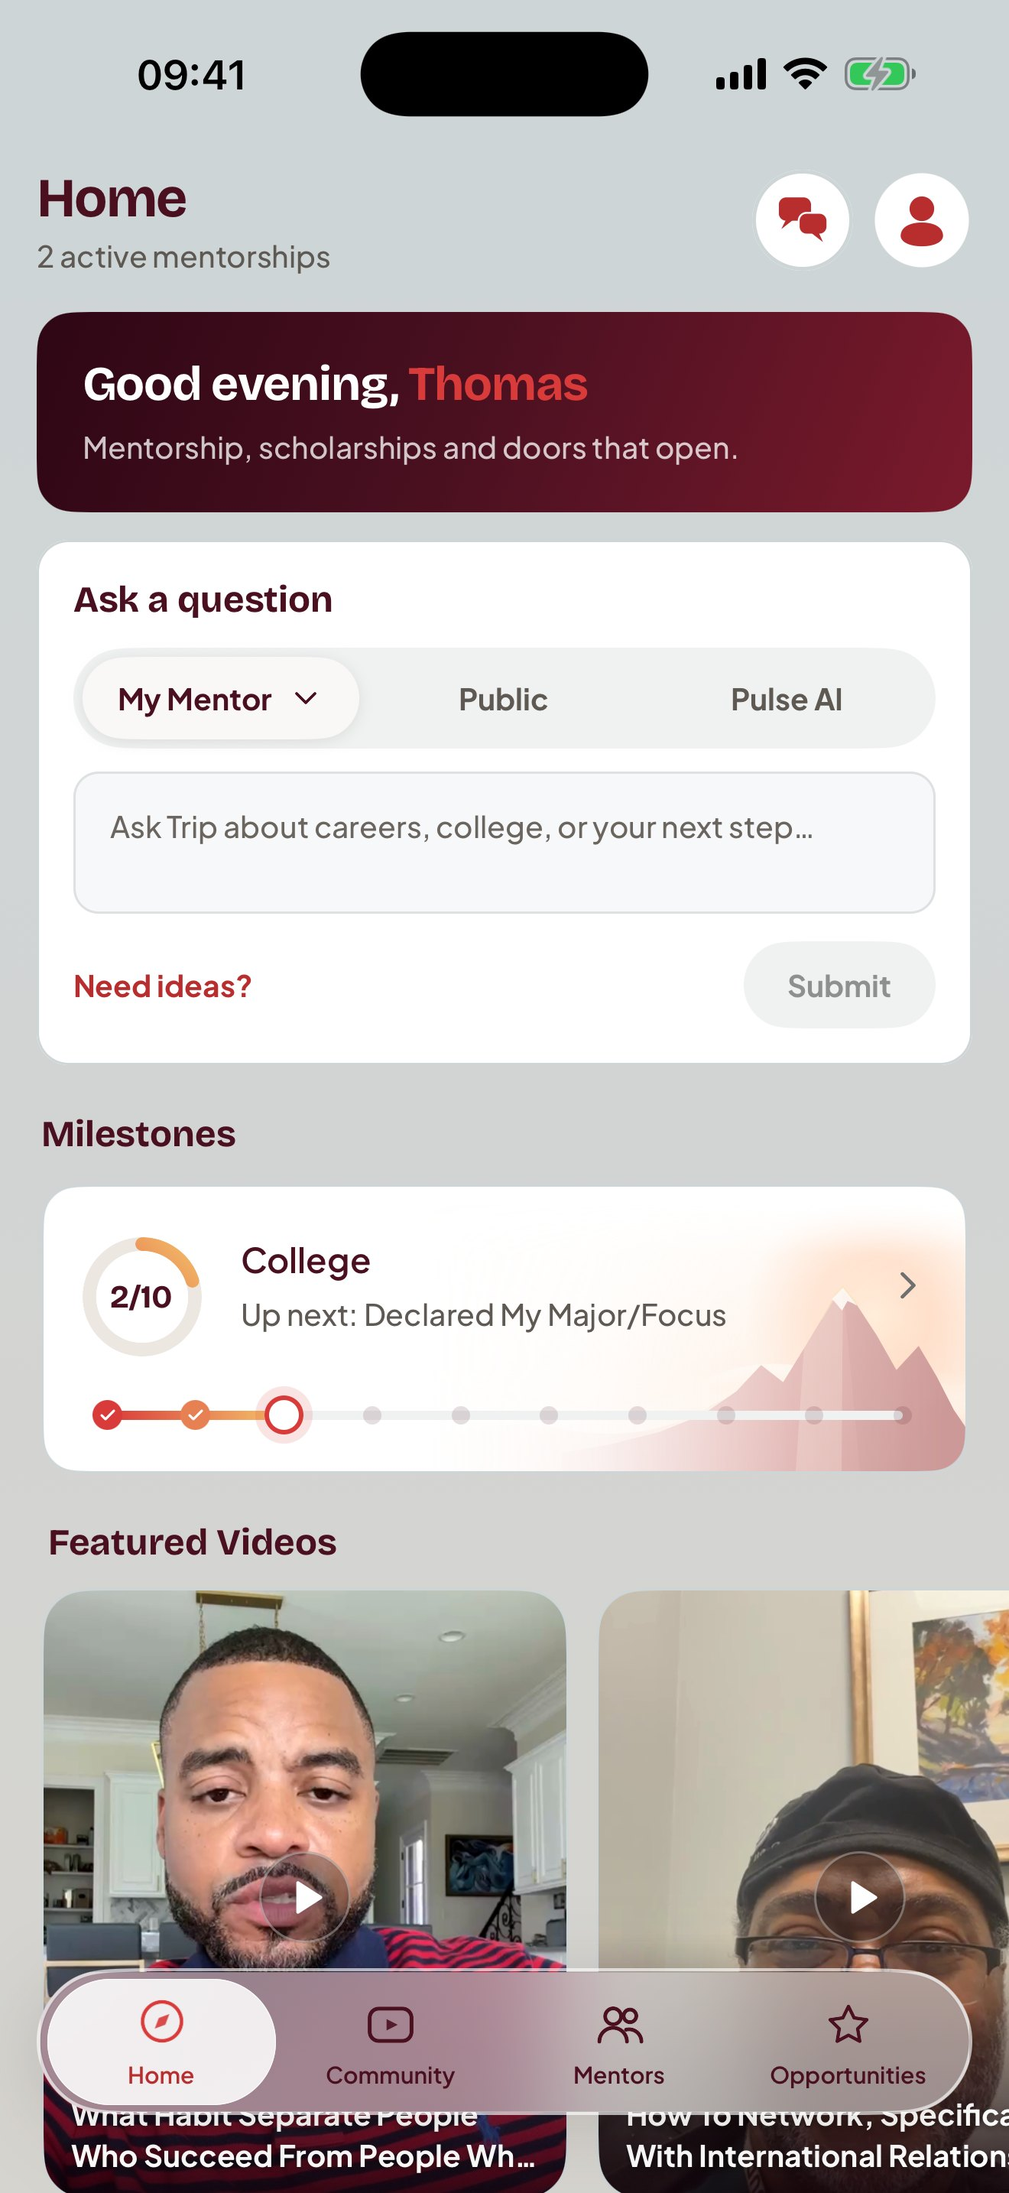
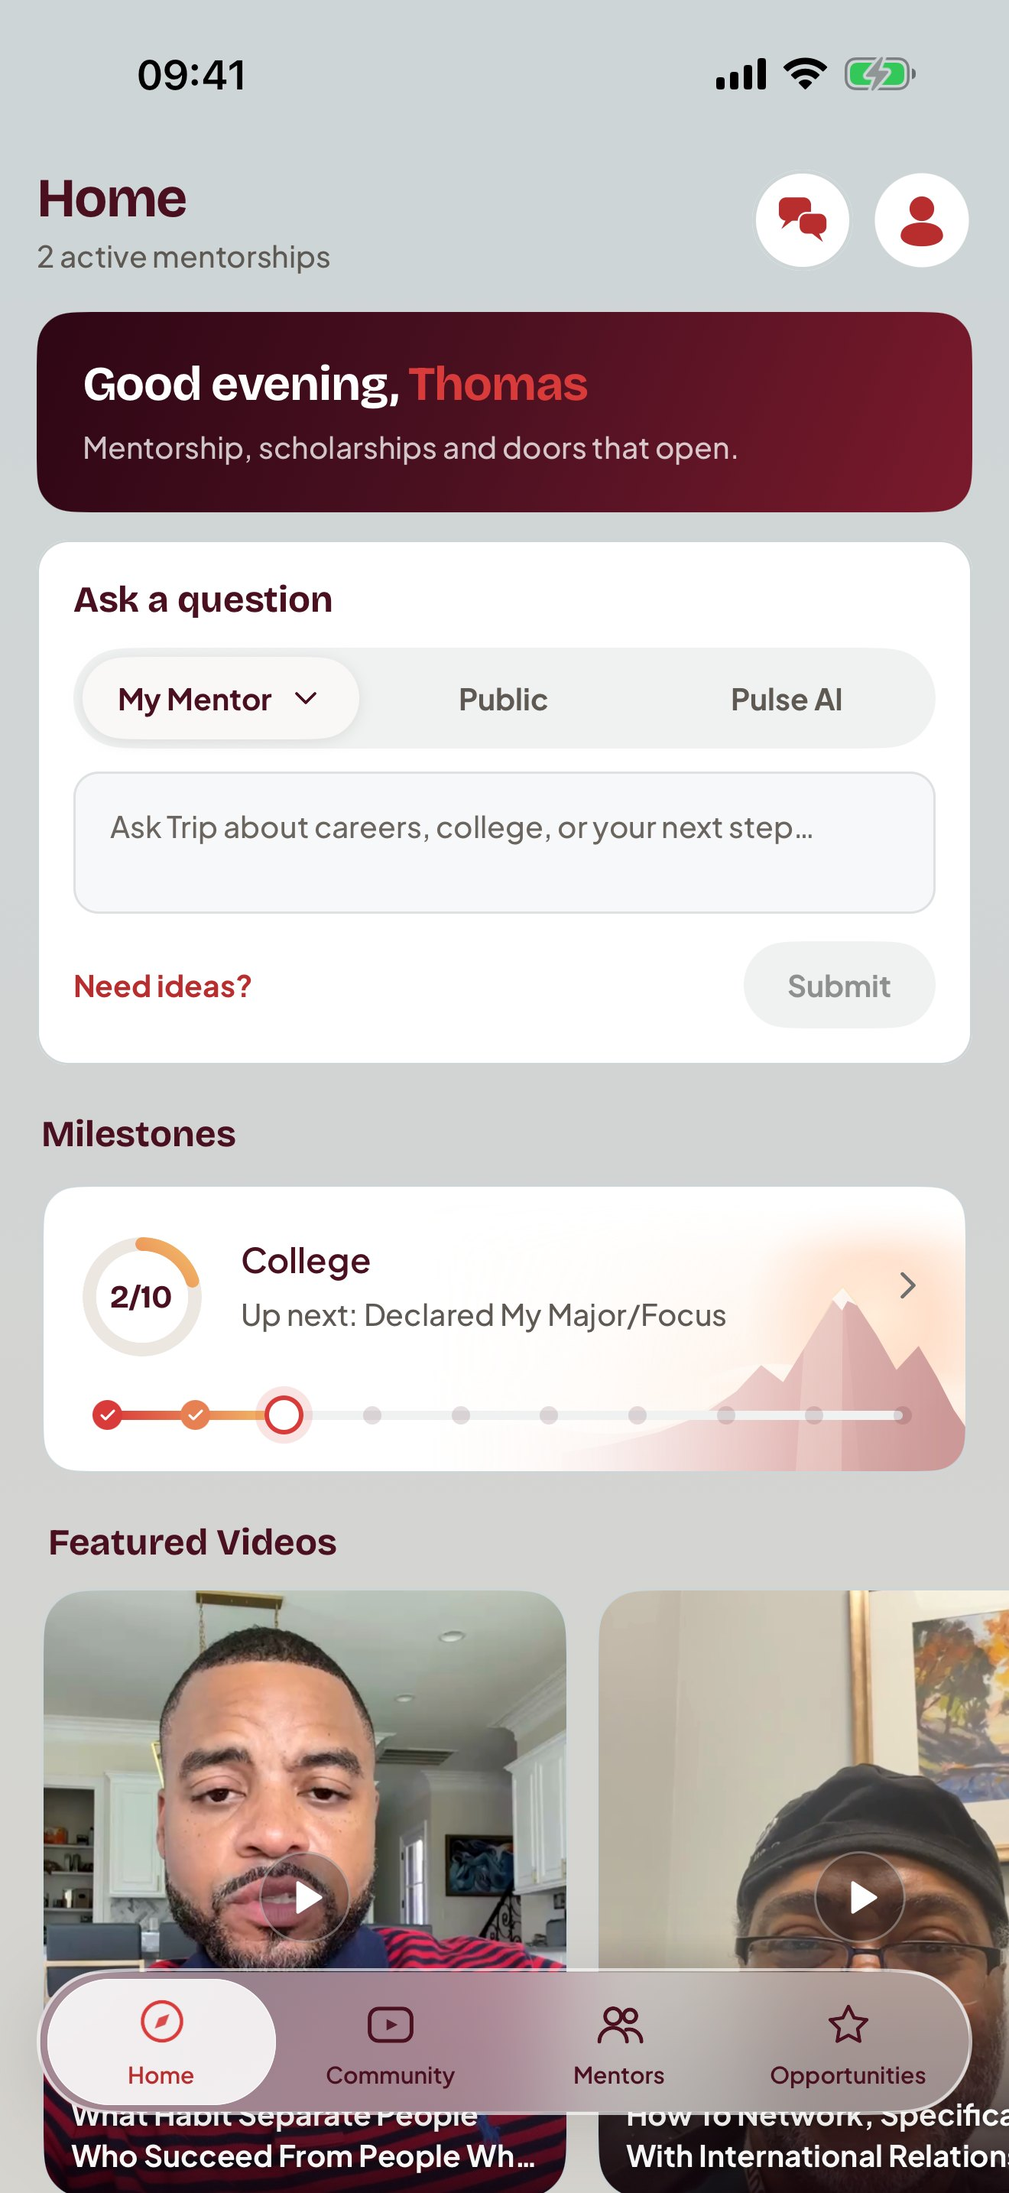
Frame 04 on the new player with Paul M, and the simulator island removed from every phone
All ten frames now show the redesigned app. The simulator paints the Dynamic Island as a
black pill that a real phone screenshot never contains; inside the drawn device it read
as a second notch, plainly wrong on the tilted opening phone and the small closing one.
strip-island.py fills it from the status bar's own background on every capture.

Changed region(s): [[0.3417, 0.0, 0.6523, 0.0621]]

diff --git a/index.html b/index.html
@@ -501,7 +501,7 @@ body.export .frame-wrap .frame { transform: none; }
 
 <div class="store">
   <div class="store-header">
-    <img class="store-icon" src="assets/icon-b-1024.png?v=202609042145?v=2" alt="P3 app icon">
+    <img class="store-icon" src="assets/icon-b-1024.png?v=202609042205?v=2" alt="P3 app icon">
     <div class="store-meta">
       <h1>P3: Pulse of Perseverance</h1>
       <div class="subtitle">Empower Education &amp; Mentorship</div>
@@ -523,9 +523,9 @@ body.export .frame-wrap .frame { transform: none; }
         <div class="frame-wrap" data-zoom="frame-01">
           <div class="frame" id="frame-01">
             <div class="pano open-pair">
-              <div class="pano-watermark"><img src="assets/campus-bg.jpg?v=202609042145" alt=""></div>
+              <div class="pano-watermark"><img src="assets/campus-bg.jpg?v=202609042205" alt=""></div>
               <div class="brand-col">
-                <img class="wordmark" src="assets/p3-logo-horizontal.png?v=202609042145" alt="P3 Pulse of Perseverance">
+                <img class="wordmark" src="assets/p3-logo-horizontal.png?v=202609042205" alt="P3 Pulse of Perseverance">
                 <div class="statement">The career<br>accelerator<br>for the <em>next<br>generation.</em></div>
                 <div class="index">
                   <div class="row">
@@ -556,7 +556,7 @@ body.export .frame-wrap .frame { transform: none; }
               </div>
               <div class="device tilt">
                 <div class="screen">
-                  <img class="capture" src="captures/home.jpg?v=202609042145" alt="P3 home feed">
+                  <img class="capture" src="captures/home.jpg?v=202609042205" alt="P3 home feed">
                 </div>
               </div>
             </div>
@@ -566,9 +566,9 @@ body.export .frame-wrap .frame { transform: none; }
         <div class="frame-wrap" data-zoom="frame-02">
           <div class="frame pr" id="frame-02">
             <div class="pano open-pair">
-              <div class="pano-watermark"><img src="assets/campus-bg.jpg?v=202609042145" alt=""></div>
+              <div class="pano-watermark"><img src="assets/campus-bg.jpg?v=202609042205" alt=""></div>
               <div class="brand-col">
-                <img class="wordmark" src="assets/p3-logo-horizontal.png?v=202609042145" alt="">
+                <img class="wordmark" src="assets/p3-logo-horizontal.png?v=202609042205" alt="">
                 <div class="statement">The career<br>accelerator<br>for the <em>next<br>generation.</em></div>
                 <div class="index">
                   <div class="row">
@@ -599,7 +599,7 @@ body.export .frame-wrap .frame { transform: none; }
               </div>
               <div class="device tilt">
                 <div class="screen">
-                  <img class="capture" src="captures/home.jpg?v=202609042145" alt="P3 home feed">
+                  <img class="capture" src="captures/home.jpg?v=202609042205" alt="P3 home feed">
                 </div>
               </div>
             </div>
@@ -635,22 +635,22 @@ body.export .frame-wrap .frame { transform: none; }
               <line x1="660" y1="950" x2="1000" y2="1560" stroke="rgba(255,255,255,0.10)" stroke-width="2"/>
               <line x1="660" y1="950" x2="210" y2="1630" stroke="rgba(255,255,255,0.10)" stroke-width="2"/>
             </svg>
-            <div class="c-node" style="width:170px;height:170px;left:875px;top:615px"><img src="assets/mentors/thomas.jpg?v=202609042145" alt="Thomas, P3 mentor"></div>
+            <div class="c-node" style="width:170px;height:170px;left:875px;top:615px"><img src="assets/mentors/thomas.jpg?v=202609042205" alt="Thomas, P3 mentor"></div>
             <div class="c-tag" style="left:865px;top:800px">97% match</div>
-            <div class="c-node" style="width:170px;height:170px;left:245px;top:715px"><img src="assets/mentors/m2.jpg?v=202609042145" alt=""></div>
+            <div class="c-node" style="width:170px;height:170px;left:245px;top:715px"><img src="assets/mentors/m2.jpg?v=202609042205" alt=""></div>
             <div class="c-tag" style="left:210px;top:900px">94% match</div>
-            <div class="c-node" style="width:170px;height:170px;left:615px;top:1335px"><img src="assets/mentors/m3.jpg?v=202609042145" alt=""></div>
+            <div class="c-node" style="width:170px;height:170px;left:615px;top:1335px"><img src="assets/mentors/m3.jpg?v=202609042205" alt=""></div>
             <div class="c-tag" style="left:610px;top:1520px">92% match</div>
-            <div class="c-node" style="width:130px;height:130px;left:985px;top:1115px"><img src="assets/mentors/m4.jpg?v=202609042145" alt=""></div>
-            <div class="c-node" style="width:130px;height:130px;left:175px;top:1185px"><img src="assets/mentors/m5.jpg?v=202609042145" alt=""></div>
-            <div class="c-node" style="width:130px;height:130px;left:435px;top:415px"><img src="assets/mentors/m6.jpg?v=202609042145" alt=""></div>
-            <div class="c-node" style="width:108px;height:108px;left:1035px;top:465px"><img src="assets/mentors/m7.jpg?v=202609042145" alt=""></div>
-            <div class="c-node" style="width:108px;height:108px;left:125px;top:475px"><img src="assets/mentors/m8.jpg?v=202609042145" alt=""></div>
-            <div class="c-node" style="width:108px;height:108px;left:1075px;top:825px"><img src="assets/mentors/m9.jpg?v=202609042145" alt=""></div>
-            <div class="c-node" style="width:118px;height:118px;left:150px;top:1580px"><img src="assets/mentors/m10.jpg?v=202609042145" alt=""></div>
-            <div class="c-node" style="width:126px;height:126px;left:945px;top:1500px"><img src="assets/mentors/m11.jpg?v=202609042145" alt=""></div>
-            <div class="c-node" style="width:100px;height:100px;left:1150px;top:1230px"><img src="assets/mentors/m12.jpg?v=202609042145" alt=""></div>
-            <div class="c-node" style="width:96px;height:96px;left:560px;top:165px"><img src="assets/mentors/m13.jpg?v=202609042145" alt=""></div>
+            <div class="c-node" style="width:130px;height:130px;left:985px;top:1115px"><img src="assets/mentors/m4.jpg?v=202609042205" alt=""></div>
+            <div class="c-node" style="width:130px;height:130px;left:175px;top:1185px"><img src="assets/mentors/m5.jpg?v=202609042205" alt=""></div>
+            <div class="c-node" style="width:130px;height:130px;left:435px;top:415px"><img src="assets/mentors/m6.jpg?v=202609042205" alt=""></div>
+            <div class="c-node" style="width:108px;height:108px;left:1035px;top:465px"><img src="assets/mentors/m7.jpg?v=202609042205" alt=""></div>
+            <div class="c-node" style="width:108px;height:108px;left:125px;top:475px"><img src="assets/mentors/m8.jpg?v=202609042205" alt=""></div>
+            <div class="c-node" style="width:108px;height:108px;left:1075px;top:825px"><img src="assets/mentors/m9.jpg?v=202609042205" alt=""></div>
+            <div class="c-node" style="width:118px;height:118px;left:150px;top:1580px"><img src="assets/mentors/m10.jpg?v=202609042205" alt=""></div>
+            <div class="c-node" style="width:126px;height:126px;left:945px;top:1500px"><img src="assets/mentors/m11.jpg?v=202609042205" alt=""></div>
+            <div class="c-node" style="width:100px;height:100px;left:1150px;top:1230px"><img src="assets/mentors/m12.jpg?v=202609042205" alt=""></div>
+            <div class="c-node" style="width:96px;height:96px;left:560px;top:165px"><img src="assets/mentors/m13.jpg?v=202609042205" alt=""></div>
             <div class="c-you"><svg viewBox="0 0 24 24" style="width:96px;height:96px;stroke:#fff;fill:none;stroke-width:2.1;stroke-linecap:round;stroke-linejoin:round"><circle cx="12" cy="8" r="3.6"/><path d="M5 20a7 7 0 0 1 14 0"/></svg></div>
             <div class="c-you-label">You</div>
           </div>
@@ -672,7 +672,7 @@ body.export .frame-wrap .frame { transform: none; }
           <div class="stage">
             <div class="device">
               <div class="screen">
-                <img class="capture" src="captures/video.jpg?v=202609042145" alt="Video answer from a mentor">
+                <img class="capture" src="captures/video.jpg?v=202609042205" alt="Video answer from a mentor">
               </div>
             </div>
           </div>
@@ -686,7 +686,7 @@ body.export .frame-wrap .frame { transform: none; }
     <div class="slot">
       <div class="frame-wrap" data-zoom="frame-05">
         <div class="frame dark f-opps" id="frame-05">
-          <div class="photo-bg"><img src="assets/opps-bg.jpg?v=202609042145" alt=""></div>
+          <div class="photo-bg"><img src="assets/opps-bg.jpg?v=202609042205" alt=""></div>
           <div class="photo-overlay"></div>
           <div class="caption">
             <div class="headline">Scholarships.<br>Internships. <em>Jobs.</em></div>
@@ -695,7 +695,7 @@ body.export .frame-wrap .frame { transform: none; }
           <div class="stage">
             <div class="device">
               <div class="screen">
-                <img class="capture" src="captures/opportunities.jpg?v=202609042145" alt="Live scholarships feed">
+                <img class="capture" src="captures/opportunities.jpg?v=202609042205" alt="Live scholarships feed">
               </div>
             </div>
           </div>
@@ -722,7 +722,7 @@ body.export .frame-wrap .frame { transform: none; }
           <div class="stage">
             <div class="device">
               <div class="screen">
-                <img class="capture" src="captures/milestones.jpg?v=202609042145" alt="Milestone pathway">
+                <img class="capture" src="captures/milestones.jpg?v=202609042205" alt="Milestone pathway">
               </div>
             </div>
           </div>
@@ -744,7 +744,7 @@ body.export .frame-wrap .frame { transform: none; }
           <div class="stage">
             <div class="device">
               <div class="screen">
-                <img class="capture" src="captures/mentor.jpg?v=202609042145" alt="Mentor profile">
+                <img class="capture" src="captures/mentor.jpg?v=202609042205" alt="Mentor profile">
               </div>
             </div>
           </div>
@@ -758,7 +758,7 @@ body.export .frame-wrap .frame { transform: none; }
     <div class="slot">
       <div class="frame-wrap" data-zoom="frame-08">
         <div class="frame dark f-recog" id="frame-08">
-          <div class="recog-bg"><img src="assets/recognized-bg.jpg?v=202609042145" alt=""></div>
+          <div class="recog-bg"><img src="assets/recognized-bg.jpg?v=202609042205" alt=""></div>
           <div class="recog-wash"></div>
           <div class="caption">
             <div class="headline">Recognized by<br><em>the best.</em></div>
@@ -767,42 +767,42 @@ body.export .frame-wrap .frame { transform: none; }
           <div class="wall">
             <div class="w-label">AS SEEN IN</div>
             <div class="w-grid m3">
-              <div class="wt media"><img src="assets/logos/abc-news.png?v=202609042145" alt="ABC News" style="max-height:180px"></div>
-              <div class="wt media"><img src="assets/logos/nyt-square.png?v=202609042145" alt="The New York Times" style="max-height:142px"></div>
-              <div class="wt media"><img src="assets/logos/today.png?v=202609042145" alt="today"></div>
-              <div class="wt media"><img src="assets/logos/adweek.png?v=202609042145" alt="Advertising Week New York" style="width:100%;max-height:none"></div>
-              <div class="wt media"><img src="assets/logos/telly.png?v=202609042145" alt="The Telly Awards" style="max-height:158px"></div>
-              <div class="wt media" style="gap:14px"><img src="assets/logos/webby.svg?v=202609042145" alt="Webby Awards" style="height:128px;width:auto;flex:none"><div style="font-family:var(--body);font-weight:800;font-size:30px;line-height:1.1;color:#191919;letter-spacing:0.5px">THE<br>WEBBY<br>AWARDS</div></div>
+              <div class="wt media"><img src="assets/logos/abc-news.png?v=202609042205" alt="ABC News" style="max-height:180px"></div>
+              <div class="wt media"><img src="assets/logos/nyt-square.png?v=202609042205" alt="The New York Times" style="max-height:142px"></div>
+              <div class="wt media"><img src="assets/logos/today.png?v=202609042205" alt="today"></div>
+              <div class="wt media"><img src="assets/logos/adweek.png?v=202609042205" alt="Advertising Week New York" style="width:100%;max-height:none"></div>
+              <div class="wt media"><img src="assets/logos/telly.png?v=202609042205" alt="The Telly Awards" style="max-height:158px"></div>
+              <div class="wt media" style="gap:14px"><img src="assets/logos/webby.svg?v=202609042205" alt="Webby Awards" style="height:128px;width:auto;flex:none"><div style="font-family:var(--body);font-weight:800;font-size:30px;line-height:1.1;color:#191919;letter-spacing:0.5px">THE<br>WEBBY<br>AWARDS</div></div>
             </div>
             <div class="w-gap"></div>
             <div class="w-label">ACADEMIC PARTNERS</div>
             <div class="w-grid p3c">
-              <div class="wt partner"><img src="assets/logos/cps.png?v=202609042145" alt="cps"></div>
-              <div class="wt partner"><img src="assets/logos/csu.png?v=202609042145" alt="csu"></div>
-              <div class="wt partner"><img src="assets/logos/langston.png?v=202609042145" alt="langston"></div>
-              <div class="wt partner"><img src="assets/logos/xavier.png?v=202609042145" alt="xavier"></div>
-              <div class="wt partner"><img src="assets/logos/nyu.png?v=202609042145" alt="nyu"></div>
-              <div class="wt partner"><img src="assets/logos/leo.png?v=202609042145" alt="leo"></div>
+              <div class="wt partner"><img src="assets/logos/cps.png?v=202609042205" alt="cps"></div>
+              <div class="wt partner"><img src="assets/logos/csu.png?v=202609042205" alt="csu"></div>
+              <div class="wt partner"><img src="assets/logos/langston.png?v=202609042205" alt="langston"></div>
+              <div class="wt partner"><img src="assets/logos/xavier.png?v=202609042205" alt="xavier"></div>
+              <div class="wt partner"><img src="assets/logos/nyu.png?v=202609042205" alt="nyu"></div>
+              <div class="wt partner"><img src="assets/logos/leo.png?v=202609042205" alt="leo"></div>
             </div>
             <div class="w-gap"></div>
             <div class="w-label">COMMUNITY &amp; FOUNDATION PARTNERS</div>
             <div class="w-grid p3c">
-              <div class="wt partner"><img src="assets/logos/mbk.png?v=202609042145" alt="mbk"></div>
-              <div class="wt partner"><img src="assets/logos/champs.png?v=202609042145" alt="champs"></div>
-              <div class="wt partner"><img src="assets/logos/100bm.png?v=202609042145" alt="100bm"></div>
-              <div class="wt partner"><img src="assets/logos/build.png?v=202609042145" alt="build" style="max-height:88px"></div>
-              <div class="wt partner"><img src="assets/logos/project-hood.png?v=202609042145" alt="Project HOOD" style="filter:brightness(0)"></div>
-              <div class="wt partner"><img src="assets/logos/gilead.png?v=202609042145" alt="gilead"></div>
+              <div class="wt partner"><img src="assets/logos/mbk.png?v=202609042205" alt="mbk"></div>
+              <div class="wt partner"><img src="assets/logos/champs.png?v=202609042205" alt="champs"></div>
+              <div class="wt partner"><img src="assets/logos/100bm.png?v=202609042205" alt="100bm"></div>
+              <div class="wt partner"><img src="assets/logos/build.png?v=202609042205" alt="build" style="max-height:88px"></div>
+              <div class="wt partner"><img src="assets/logos/project-hood.png?v=202609042205" alt="Project HOOD" style="filter:brightness(0)"></div>
+              <div class="wt partner"><img src="assets/logos/gilead.png?v=202609042205" alt="gilead"></div>
             </div>
             <div class="w-gap"></div>
             <div class="w-label">KNOWLEDGE &amp; INDUSTRY PARTNERS</div>
             <div class="w-grid p3c">
-              <div class="wt partner"><img src="assets/logos/google.png?v=202609042145" alt="google"></div>
-              <div class="wt partner"><img src="assets/logos/mentor.png?v=202609042145" alt="mentor"></div>
-              <div class="wt partner"><img src="assets/logos/versus.png?v=202609042145" alt="Versus" style="width:78%;max-height:none"></div>
-              <div class="wt partner"><img src="assets/logos/michigan.png?v=202609042145" alt="michigan"></div>
-              <div class="wt partner"><img src="assets/logos/kepler.png?v=202609042145" alt="Kepler" style="width:82%;max-height:none"></div>
-              <div class="wt partner"><img src="assets/logos/3advance.png?v=202609042145" alt="3advance"></div>
+              <div class="wt partner"><img src="assets/logos/google.png?v=202609042205" alt="google"></div>
+              <div class="wt partner"><img src="assets/logos/mentor.png?v=202609042205" alt="mentor"></div>
+              <div class="wt partner"><img src="assets/logos/versus.png?v=202609042205" alt="Versus" style="width:78%;max-height:none"></div>
+              <div class="wt partner"><img src="assets/logos/michigan.png?v=202609042205" alt="michigan"></div>
+              <div class="wt partner"><img src="assets/logos/kepler.png?v=202609042205" alt="Kepler" style="width:82%;max-height:none"></div>
+              <div class="wt partner"><img src="assets/logos/3advance.png?v=202609042205" alt="3advance"></div>
             </div>
           </div>
           <div class="grain"></div>
@@ -832,7 +832,7 @@ body.export .frame-wrap .frame { transform: none; }
                   <div class="url-chip">platform.pulseofp3.org</div>
                 </div>
                 <div class="web-screen">
-                  <img class="capture" src="captures/web-home.jpg?v=202609042145" alt="P3 web platform, Milestones view">
+                  <img class="capture" src="captures/web-home.jpg?v=202609042205" alt="P3 web platform, Milestones view">
                 </div>
               </div>
               <div class="web-excl">
@@ -843,7 +843,7 @@ body.export .frame-wrap .frame { transform: none; }
               </div>
               <div class="device close-phone">
                 <div class="screen">
-                  <img class="capture" src="captures/home.jpg?v=202609042145" alt="P3 app home on a phone">
+                  <img class="capture" src="captures/home.jpg?v=202609042205" alt="P3 app home on a phone">
                 </div>
               </div>
             </div>
@@ -868,7 +868,7 @@ body.export .frame-wrap .frame { transform: none; }
                   <div class="url-chip">platform.pulseofp3.org</div>
                 </div>
                 <div class="web-screen">
-                  <img class="capture" src="captures/web-home.jpg?v=202609042145" alt="P3 web platform, Milestones view">
+                  <img class="capture" src="captures/web-home.jpg?v=202609042205" alt="P3 web platform, Milestones view">
                 </div>
               </div>
               <div class="web-excl">
@@ -879,7 +879,7 @@ body.export .frame-wrap .frame { transform: none; }
               </div>
               <div class="device close-phone">
                 <div class="screen">
-                  <img class="capture" src="captures/home.jpg?v=202609042145" alt="P3 app home on a phone">
+                  <img class="capture" src="captures/home.jpg?v=202609042205" alt="P3 app home on a phone">
                 </div>
               </div>
             </div>
@@ -928,7 +928,7 @@ body.export .frame-wrap .frame { transform: none; }
       var span = document.createElement('span');
       span.className = 'frost-bg';
       span.style.backgroundImage =
-        'linear-gradient(rgba(255,255,255,0.34), rgba(255,255,255,0.34)), url(assets/recognized-bg.jpg?v=202609042145)';
+        'linear-gradient(rgba(255,255,255,0.34), rgba(255,255,255,0.34)), url(assets/recognized-bg.jpg?v=202609042205)';
       span.style.backgroundSize = 'auto, ' + dw + 'px ' + dh + 'px';
       span.style.backgroundPosition = '0 0, ' + (ox - (tx - BLEED)) + 'px ' + (oy - (ty - BLEED)) + 'px';
       t.insertBefore(span, t.firstChild);
